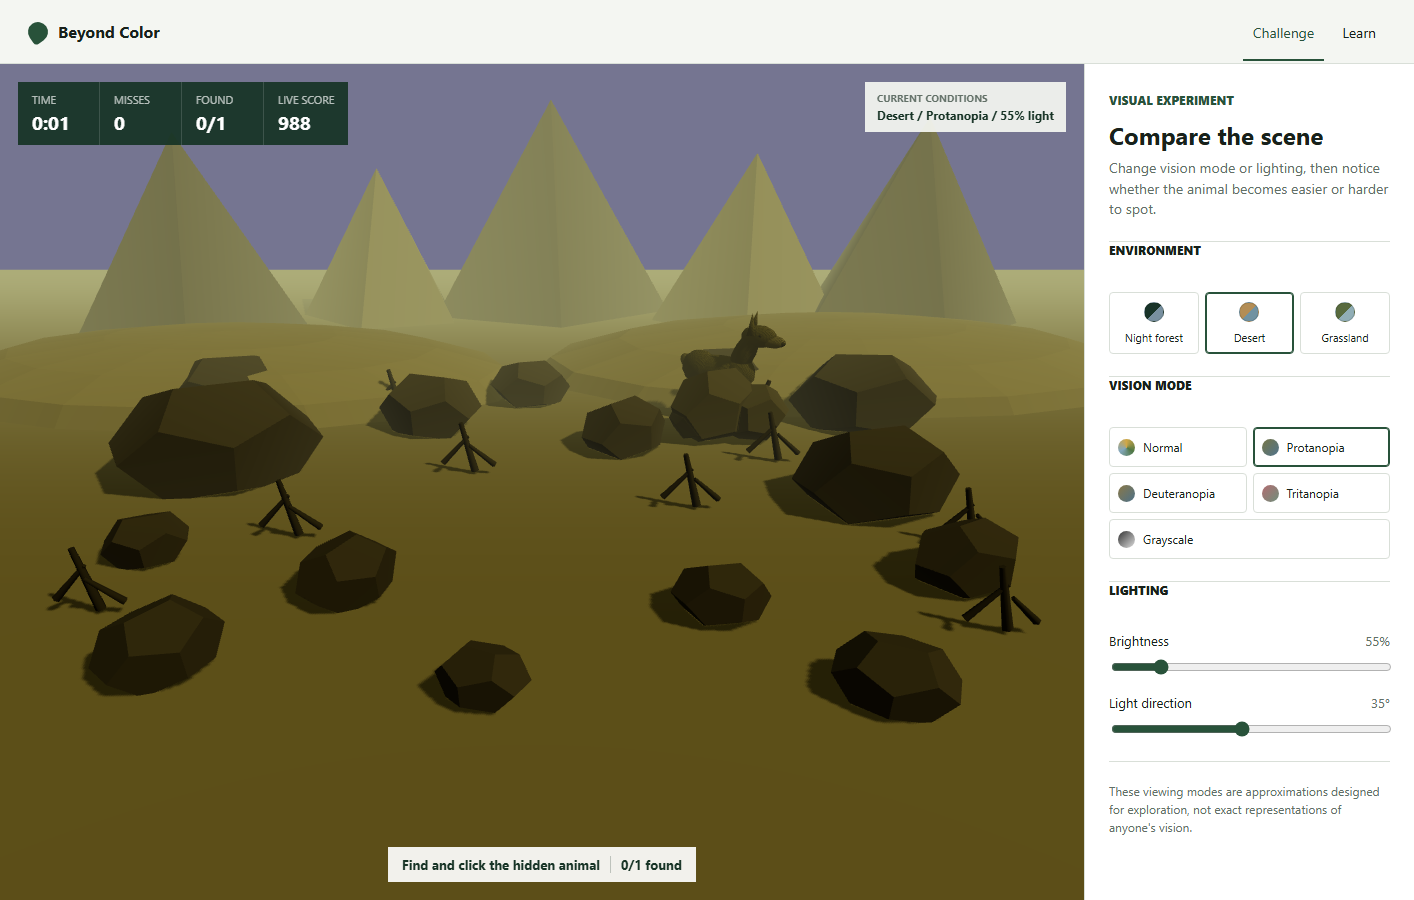
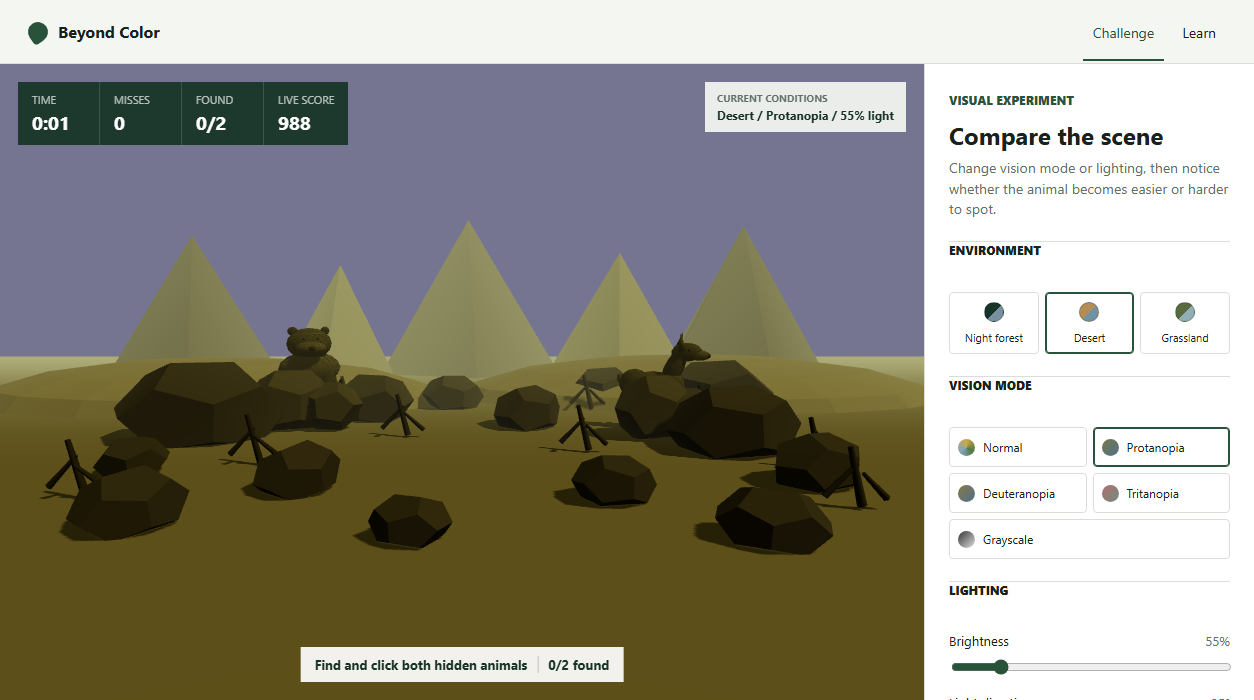
Lower camera to eye-level perspective

diff --git a/web-app/src/App.tsx b/web-app/src/App.tsx
@@ -230,7 +230,7 @@ function transformColor(hex: string, mode: VisionMode) {
 
 function CameraRig() {
   const { camera } = useThree()
-  useEffect(() => camera.lookAt(0, 1, 0), [camera])
+  useEffect(() => camera.lookAt(0, 1.3, 0), [camera])
   return null
 }
 
@@ -920,7 +920,7 @@ function SceneCanvas({ className = '', ...sceneProps }: ForestSceneProps & { cla
       <Canvas
         shadows
         dpr={[1, 1.5]}
-        camera={{ position: [0, 5.3, 10], fov: 47, near: 0.1, far: 60 }}
+        camera={{ position: [0, 2.6, 10], fov: 47, near: 0.1, far: 60 }}
         gl={{ antialias: true, toneMapping: THREE.ACESFilmicToneMapping }}
       >
         <ForestScene {...sceneProps} />
